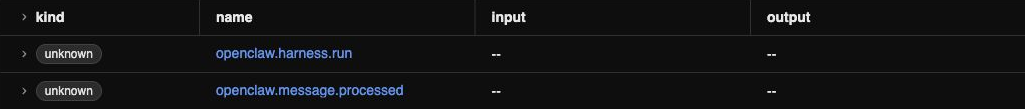
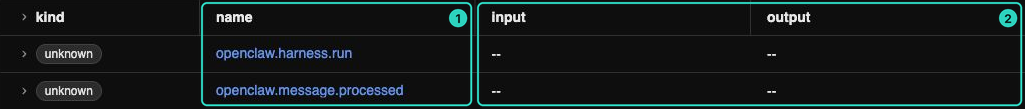
Number the trace details and mark them on the screenshots
- Numbers the table rows that the screenshots show and outlines the same spots in turquoise.
- Moves session.id, which no screenshot shows, to the end of the table.

Claude-Session: https://claude.ai/code/session_01N89AVAkXsM319rUbbxpqAx

Changed region(s): [[0.1873, 0.0, 0.999, 0.9908], [0.9678, 0.0826, 0.999, 0.2752]]

diff --git a/README.md b/README.md
@@ -168,20 +168,20 @@ I wrote an [observer plugin](observer/) that names each run, fills in its reques
 
 | Trace detail | Default export | With the plugin |
 |---|---|---|
-| Root span name | `openclaw.harness.run` or `openclaw.message.processed` | Heartbeat, Conversation, Scheduled task or Evaluation |
-| `input.value` and `output.value` | Missing | The request and the final reply |
+| ① Root span name | `openclaw.harness.run` or `openclaw.message.processed` | Heartbeat, Conversation, Scheduled task or Evaluation |
+| ② `input.value` and `output.value` | Missing | The request and the final reply |
+| ③ Tool names | Every tool span is named `openclaw.tool.execution`, with the tool's name only in its attributes | In the readable export, each step is named for the tool that ran, such as `read` or `apple_calendar_events` |
+| ④ Token counts | Aggregate usage counted as an extra model call | Per-call usage, with the aggregate kept as a diagnostic counter |
+| ⑤ Recorded reasoning | Not exported | Optional, bounded and credential-redacted |
 | `session.id` | Missing | One identifier per conversation, so its turns group together |
-| Tool names | Every tool span is named `openclaw.tool.execution`, with the tool's name only in its attributes | In the readable export, each step is named for the tool that ran, such as `read` or `apple_calendar_events` |
-| Token counts | Aggregate usage counted as an extra model call | Per-call usage, with the aggregate kept as a diagnostic counter |
-| Recorded reasoning | Not exported | Optional, bounded and credential-redacted |
 
-Two runs in Phoenix's trace list, a heartbeat and a question about this week's readings:
+Two runs in Phoenix's trace list, a heartbeat and a question about this week's readings (numbers match the table):
 
 <table>
   <tr><th>Default export</th></tr>
-  <tr><td><img src="figures/trace-list-default.png" width="100%" alt="Phoenix trace list for the default export: two runs of kind unknown, named openclaw.harness.run and openclaw.message.processed, with no input or output."></td></tr>
+  <tr><td><img src="figures/trace-list-default.png" width="100%" alt="Phoenix trace list for the default export: two runs of kind unknown, named openclaw.harness.run and openclaw.message.processed, with no input or output. Outline 1 marks the name column and outline 2 the input and output columns."></td></tr>
   <tr><th>Readable export</th></tr>
-  <tr><td><img src="figures/trace-list-readable.png" width="100%" alt="The same two runs in the readable export: both of kind agent, named Heartbeat · Coursework reminder and Coursework · This week's readings, each showing its request and the start of its reply."></td></tr>
+  <tr><td><img src="figures/trace-list-readable.png" width="100%" alt="The same two runs in the readable export: both of kind agent, named Heartbeat · Coursework reminder and Coursework · This week's readings, each showing its request and the start of its reply. Outlines 1 and 2 mark the same columns."></td></tr>
 </table>
 
 *The readable export is the plugin's record of each run, re-exported offline.*
@@ -194,8 +194,8 @@ Inside the readings run, the default export already records each tool call's par
     <th width="50%">Readable export</th>
   </tr>
   <tr>
-    <td><img src="figures/trace-tree-default.png" width="100%" alt="The first steps of the readings run in the default export: a root named openclaw.message.processed, an extra openclaw.model.usage span holding the run's total of 174,107 tokens, then alternating openclaw.model.call and openclaw.tool.execution spans, with the 131 ms calendar lookup highlighted."></td>
-    <td><img src="figures/trace-tree-readable.png" width="100%" alt="The same steps in the readable export: a root named Coursework · This week's readings, then numbered steps such as 01. Model · choose next step, 02. Tool · read and 03. Tool · apple_calendar_events, with recorded reasoning under each model call and the same calendar lookup highlighted."></td>
+    <td><img src="figures/trace-tree-default.png" width="100%" alt="The first steps of the readings run in the default export: a root named openclaw.message.processed, an extra openclaw.model.usage span holding the run's total of 174,107 tokens, then alternating openclaw.model.call and openclaw.tool.execution spans. Outline 4 marks the openclaw.model.usage span and outline 3 the highlighted 131 ms calendar lookup."></td>
+    <td><img src="figures/trace-tree-readable.png" width="100%" alt="The same steps in the readable export: a root named Coursework · This week's readings, then numbered steps such as 01. Model · choose next step, 02. Tool · read and 03. Tool · apple_calendar_events, with recorded reasoning under each model call. Outline 3 marks the same calendar lookup, highlighted, and outline 5 the first recorded reasoning."></td>
   </tr>
 </table>
 
